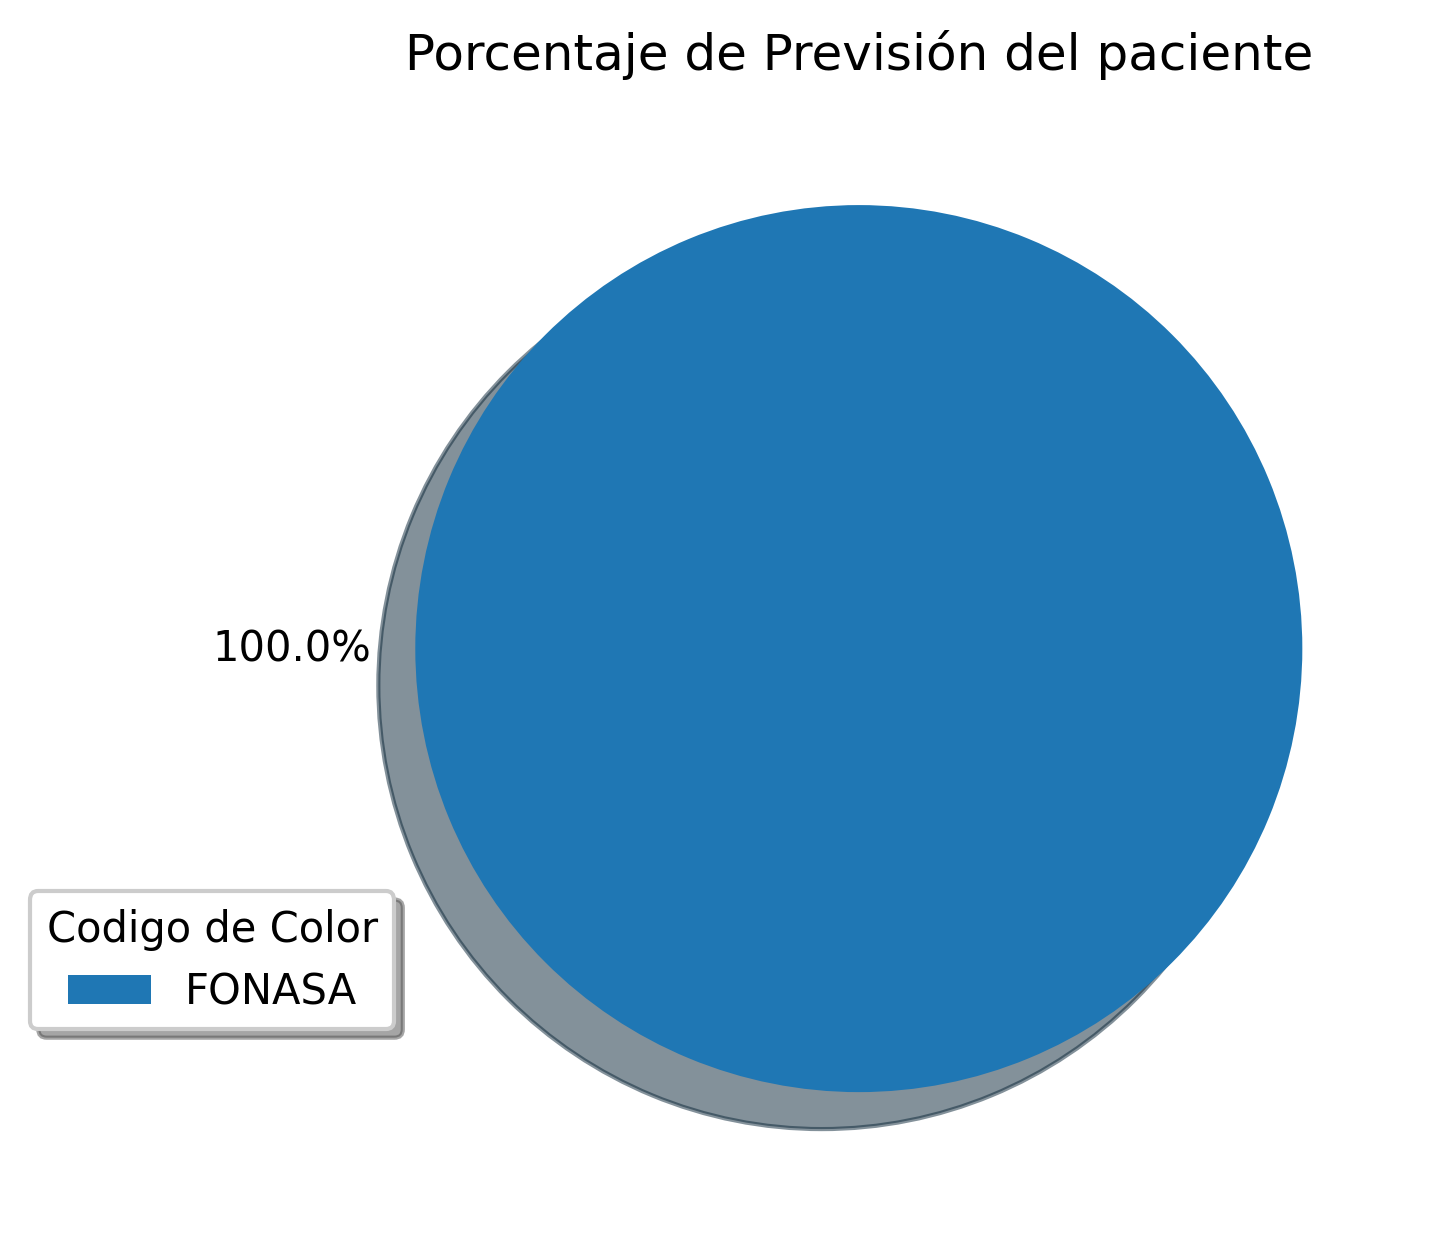
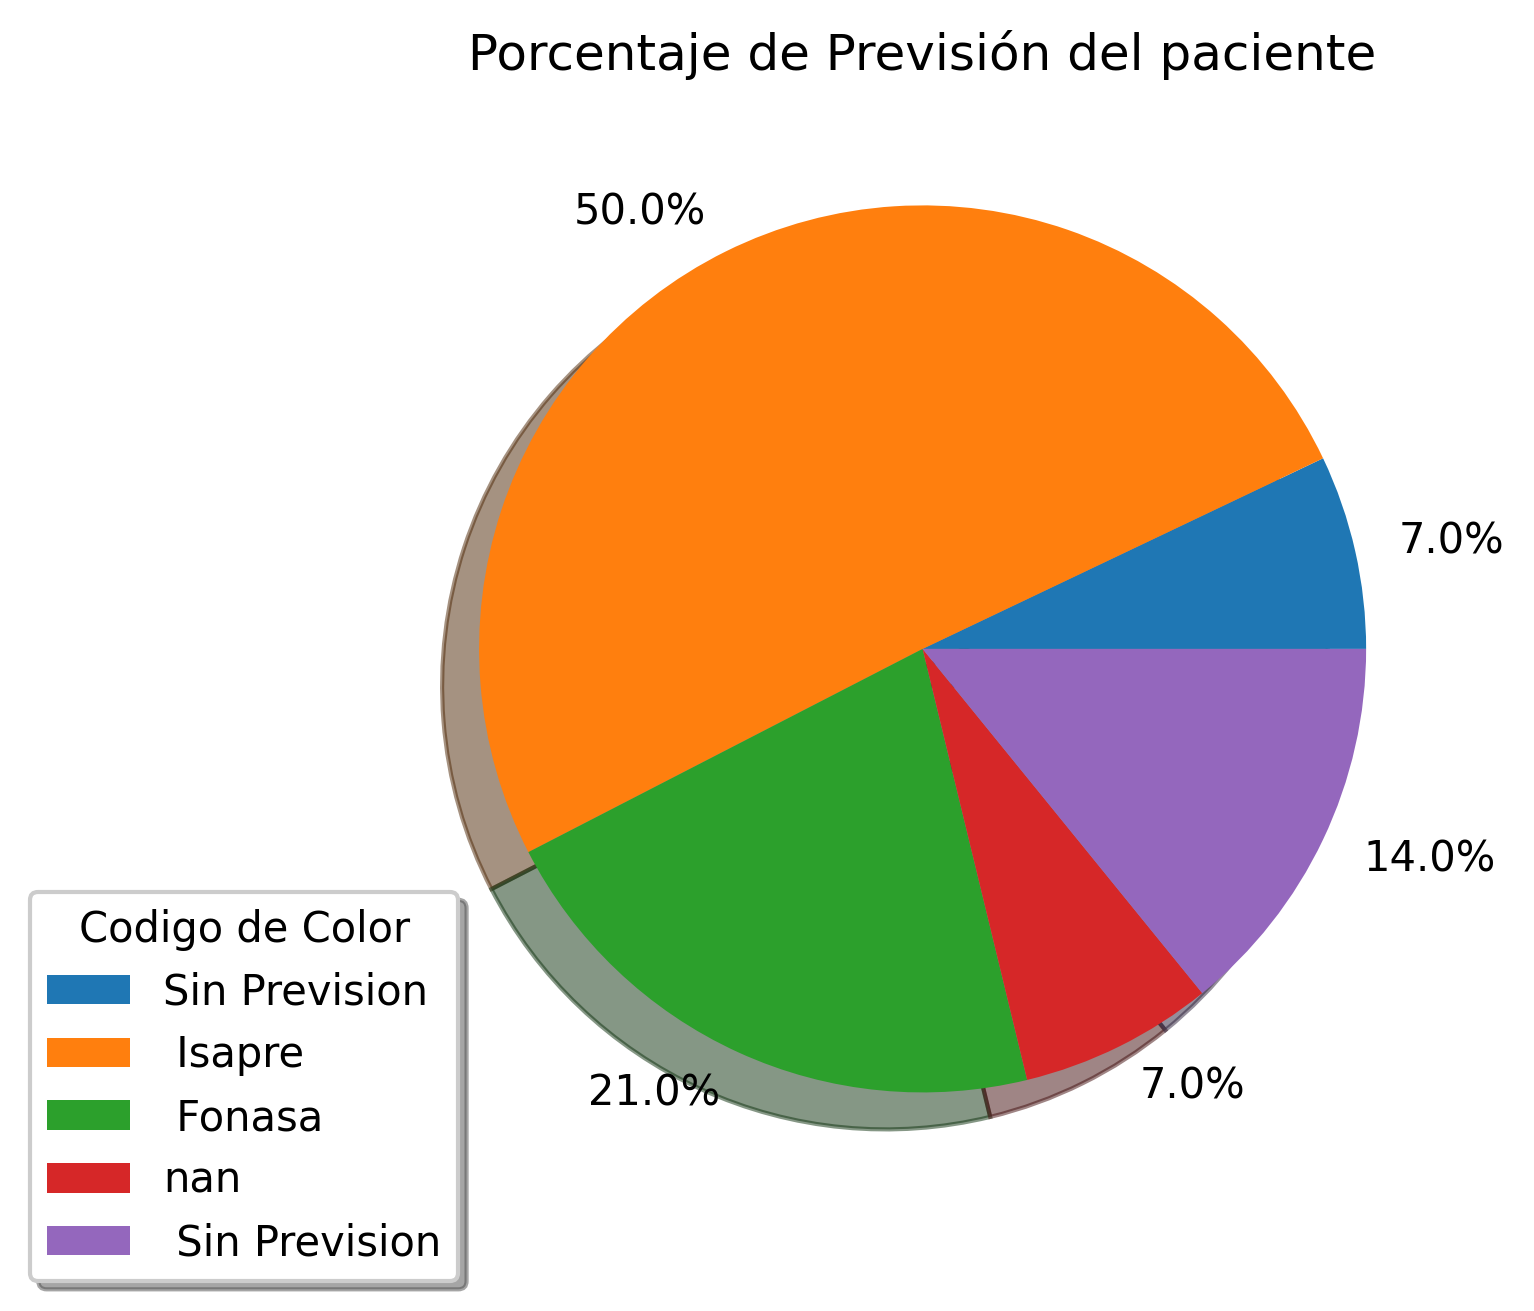
gfgjh

diff --git a/gui.py b/gui.py
@@ -458,8 +458,11 @@ def merge_sort(m):
 
 def graficarDatos(caso,_datos,_titulo,_f,_titulo_x="x",_titulo_y="y"):
     aux = _datos.tolist()
-    aux = merge_sort(aux)
-    _datos=aux
+    try:
+        aux = merge_sort(aux)
+        _datos=aux
+    except TypeError:
+        _datos=aux
     auxOrdenado = list(dict.fromkeys(_datos))
     count = 0
     cantidad = []
@@ -484,22 +487,23 @@ def graficarDatos(caso,_datos,_titulo,_f,_titulo_x="x",_titulo_y="y"):
         datos.append(str(auxOrdenado[a]))
 
     if _f=="pie":
-        pie=plt.pie(porAproximados, explode=None, labels=porAproximadosFinal, shadow=True)
-
-        pie.legend(datos, title= "Codigo de Color", loc=0, bbox_to_anchor=(0.1 , 0.3), shadow=True)
-        pie.title("Porcentaje de "+_titulo)
-        pie.savefig(f"./graficos/"+_titulo+".png",dpi=300,bbox_inches="tight")
-        if caso:pie.show()
+        plt.pie(porAproximados, explode=None, labels=porAproximadosFinal, shadow=True)
+        plt.legend(datos, title= "Codigo de Color", loc=0, bbox_to_anchor=(0.1 , 0.3), shadow=True)
+        plt.title("Porcentaje de "+_titulo)
+        plt.savefig(f"./imagenes/"+_titulo+".png",dpi=300,bbox_inches="tight")
+        if caso:plt.show()
+        plt.close()
 
     elif _f=="bar":
-        grafbar=plt.bar(datos, cantidad, align="center",title=_titulo,xlabel=_titulo_x,ylabel=_titulo_y)
-        #grafbar.title(_titulo)
-        #grafbar.ylabel(_titulo_y)
-        #grafbar.xlabel(_titulo_x)
-        grafbar.grid(axis="y")
-        grafbar.savefig(f"./graficos/"+_titulo+".png",dpi=300,bbox_inches="tight")
-        if caso:grafbar.show()
-   
+        plt.bar(datos, cantidad, align="center")
+        plt.title(_titulo)
+        plt.ylabel(_titulo_y)
+        plt.xlabel(_titulo_x)
+        plt.grid(axis="y")
+        plt.savefig(f"./imagenes/"+_titulo+".png",dpi=300,bbox_inches="tight")
+        if caso:plt.show()
+        plt.close()
+    
     
 
 
@@ -755,7 +759,6 @@ dashboard_label=Label(dashboard_frame, text="Dashboard",font=titulo_font,bg=Curi
 dashboard_label.pack(fill=X)
 dashboard_btn_lista=[]
 lista_datos=leerArchivos()
-print(lista_datos)
 graficarDatos(False,lista_datos[0],"Edades de los Pacientes","bar","Edades", "Pacientes por Edad")
 graficarDatos(False,lista_datos[1],"Especialidades de los doctores","pie", "Especialidades")
 graficarDatos(False,lista_datos[2],"Modalidad","pie", "Modalidad de la cita")

diff --git a/datosDeRelleno.py b/datosDeRelleno.py
@@ -119,8 +119,13 @@ lista_numero=pacientes_csv["numero de telefono"]
 lista_pacientes=[]
 for i in range (len(lista_nombres)):
     for j in lista_nombres:
-        
-        paciente=clases.Paciente()
+        j.split()
+        n1=j[0]
+        n2=j[1]
+        ap1=j[2]
+        ap2=j[3]
+    paciente=clases.Paciente(n1,n2,ap1,ap2,lista_ruts[i],lista_edad[i],lista_emails[i],lista_numero[i])
+    lista_pacientes.append(paciente)
 
 clinica_objeto= clases.Clinica("Clinica de la Salud", "Público","Avenida Verdadera #123, Rancagua","", lista_medicos, lista_pacientes)
 
